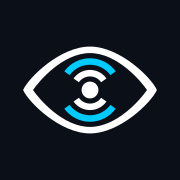
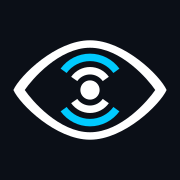
Branding: larger mark on the app tile; eye-shaped badge variant
The eye filled 72% of the tile width; now 96%, at every icon size and
on the apple-touch icon. Adds bandsight-icon-badge (the mark on an
eye-shaped dark backing) and a 1024 px export of the app tile.

Changed region(s): [[0.0556, 0.2222, 0.9444, 0.7778]]

diff --git a/docs/branding/generate.py b/docs/branding/generate.py
@@ -99,7 +99,7 @@ def svg(w, h, body, view=None):
     )
 
 
-def tile(small=False, pad=0.82):
+def tile(small=False, pad=1.09):
     """App icon: the white mark on a dark rounded square, so it reads on both
     light and dark panels and menus."""
     s = pad
@@ -107,6 +107,19 @@ def tile(small=False, pad=0.82):
     return (
         f'<rect width="560" height="560" rx="124" fill="{TILE}"/>'
         f'<g transform="translate({off:.2f} {off:.2f}) scale({s})">{mark(WHITE, small)}</g>'
+    )
+
+
+def badge(fg=WHITE, back=TILE, edge=48):
+    """The mark on an eye-shaped backing that follows the outline with a thick
+    margin, sharp at the tips like the eye itself. Transparent outside."""
+    s = 0.84
+    off = C * (1 - s)
+    return (
+        f'<g transform="translate({off:.2f} {off:.2f}) scale({s})">'
+        f'<path d="{lens(EYE_OUTER)}" fill="{back}" stroke="{back}" '
+        f'stroke-width="{edge * 2}" stroke-linejoin="miter" stroke-miterlimit="10"/>'
+        f'{mark(fg)}</g>'
     )
 
 
@@ -205,10 +218,13 @@ def main():
     write(j("bandsight-icon-small.svg"), svg(560, 560, mark(NAVY, True)))
     write(j("bandsight-icon-small-dark.svg"), svg(560, 560, mark(WHITE, True)))
     write(j("bandsight-app-icon.svg"), svg(560, 560, tile()))
-    write(j("bandsight-app-icon-small.svg"), svg(560, 560, tile(True, 0.92)))
-    write(j("bandsight-app-icon-micro.svg"), svg(560, 560, tile("micro", 0.96)))
+    write(j("bandsight-icon-badge.svg"), svg(560, 560, badge()))
+    write(j("bandsight-app-icon-small.svg"), svg(560, 560, tile(True, 1.09)))
+    write(j("bandsight-app-icon-micro.svg"), svg(560, 560, tile("micro", 1.09)))
     png(j("bandsight-icon.svg"), j("bandsight-icon.png"), 1024)
     png(j("bandsight-icon-dark.svg"), j("bandsight-icon-dark.png"), 1024)
+    png(j("bandsight-app-icon.svg"), j("bandsight-app-icon.png"), 1024)
+    png(j("bandsight-icon-badge.svg"), j("bandsight-icon-badge.png"), 1024)
 
     # Wordmarks.
     write(j("bandsight-logo.svg"), wordmark(font, NAVY))
@@ -246,7 +262,7 @@ def main():
         subprocess.run(["magick", *icos, j("favicon.ico")], check=True)
         at = os.path.join(tmp, "at.svg")
         write(at, svg(180, 180, f'<rect width="180" height="180" fill="{TILE}"/>'
-                      f'<g transform="translate(14 14) scale({152 / 560:.5f})">{mark(WHITE)}</g>'))
+                      f'<g transform="translate(3 3) scale({174 / 560:.5f})">{mark(WHITE)}</g>'))
         png(at, j("apple-touch-icon.png"), 180)
 
     # hicolor theme icons for the launcher, window and tray.
